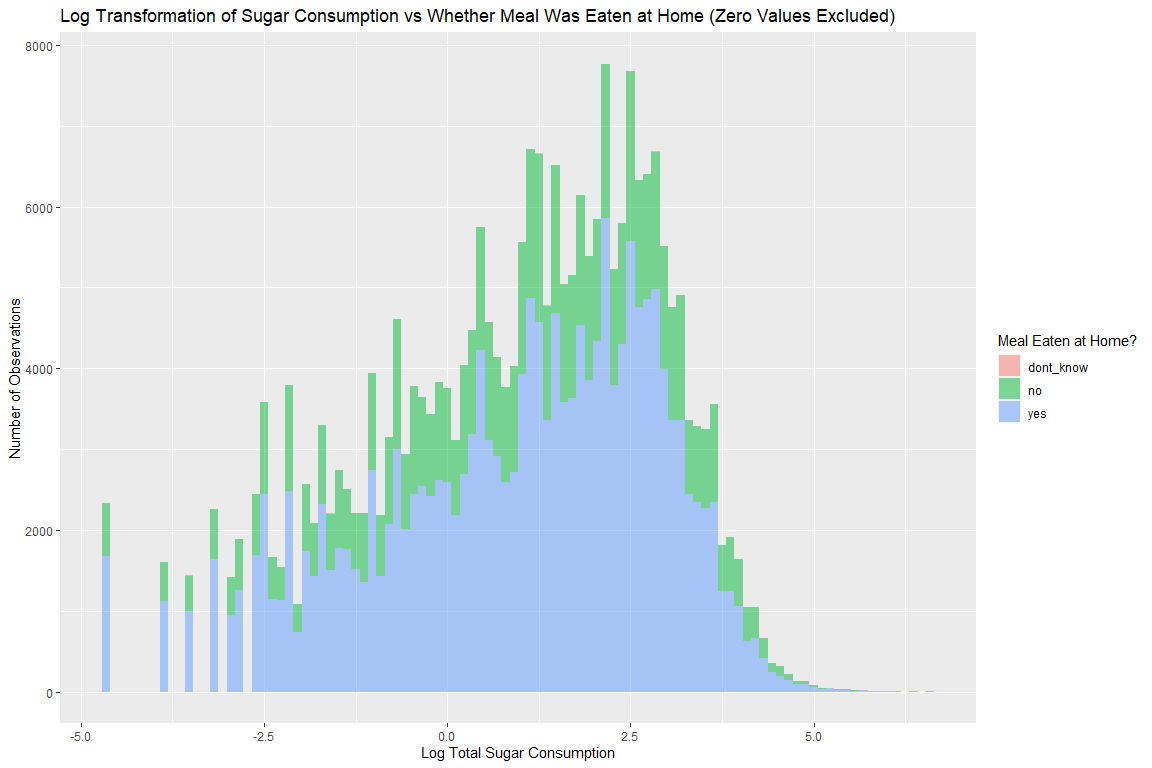
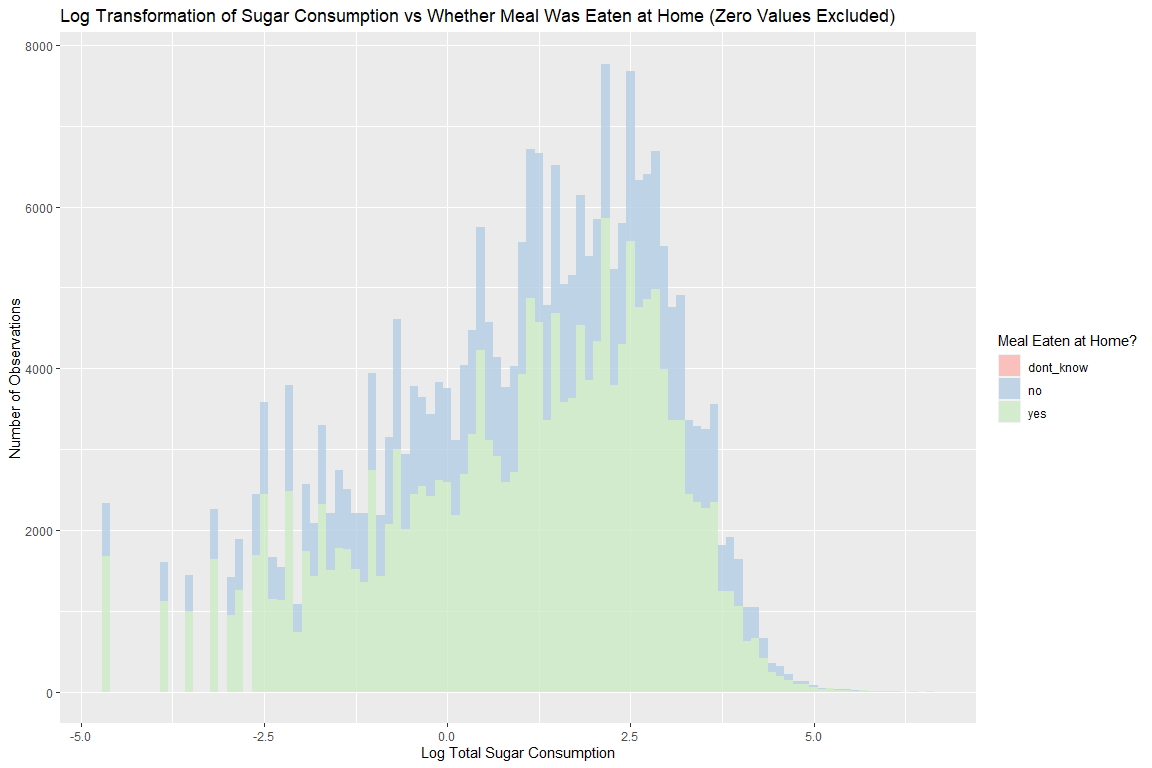
prettifing the plots

Changed region(s): [[0.125, 0.0938, 0.75, 0.9062], [0.0625, 0.6562, 0.0938, 0.9062], [0.8438, 0.5, 0.9062, 0.5625]]

diff --git a/README.md b/README.md
@@ -1,7 +1,7 @@
 PM566 Midterm Project
 ================
 Flemming Wu
-2022-10-20
+2022-10-21
 
 # Introduction
 
@@ -284,6 +284,8 @@ day progresses, with large spikes at around 4:00 PM, 6:00 PM, 9:00 PM
 and 4:00 AM. A similar trend can be observed for saturated fatty acid
 consumption, with a large spike at around 12:00 PM and 10:30 PM.
 
+![](README_files/figure-gfm/unnamed-chunk-2-1.png)<!-- -->
+
 <img src="README_files/figure-gfm/plot sugar and saturated fa consumption against time grouped by day of the week-1.png" style="display: block; margin: auto;" /><img src="README_files/figure-gfm/plot sugar and saturated fa consumption against time grouped by day of the week-2.png" style="display: block; margin: auto;" />
 
 Average sugar consumption spikes in the late night or early morning on
@@ -350,14 +352,14 @@ in omega-3 fatty acids.
 
 #### What foods are associated with high sugar or high saturated fatty acids?
 
-<img src="README_files/figure-gfm/unnamed-chunk-2-1.png" style="display: block; margin: auto;" />
+<img src="README_files/figure-gfm/unnamed-chunk-3-1.png" style="display: block; margin: auto;" />
 The bar chart above plots the top 30 most common food or drink items in
 the data set recorded to contain over 33.11 grams of sugar, and is
 ranked by how often they occur in the data. It is interesting to see
 that the top four most common high-sugar content items are soft-drinks,
 and that 21 out of 30 of the items are a type of beverage.
 
-<img src="README_files/figure-gfm/unnamed-chunk-3-1.png" style="display: block; margin: auto;" />
+<img src="README_files/figure-gfm/unnamed-chunk-4-1.png" style="display: block; margin: auto;" />
 The bar chart above plots the top 30 most common food or drink items in
 the data set recorded to contain over 8.51 grams of saturated fatty
 acids, and is ranked by how often they occur in the data. Commonly
